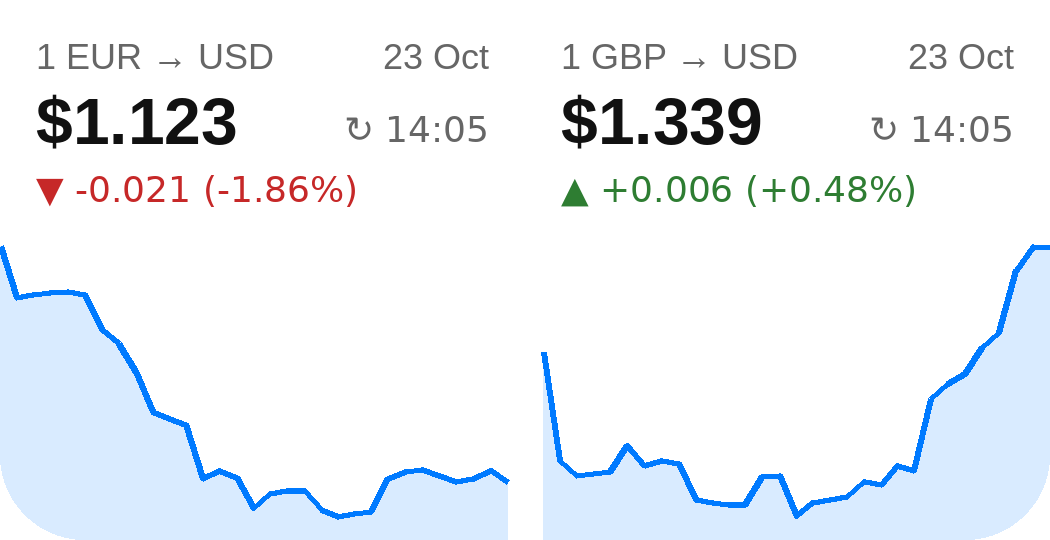
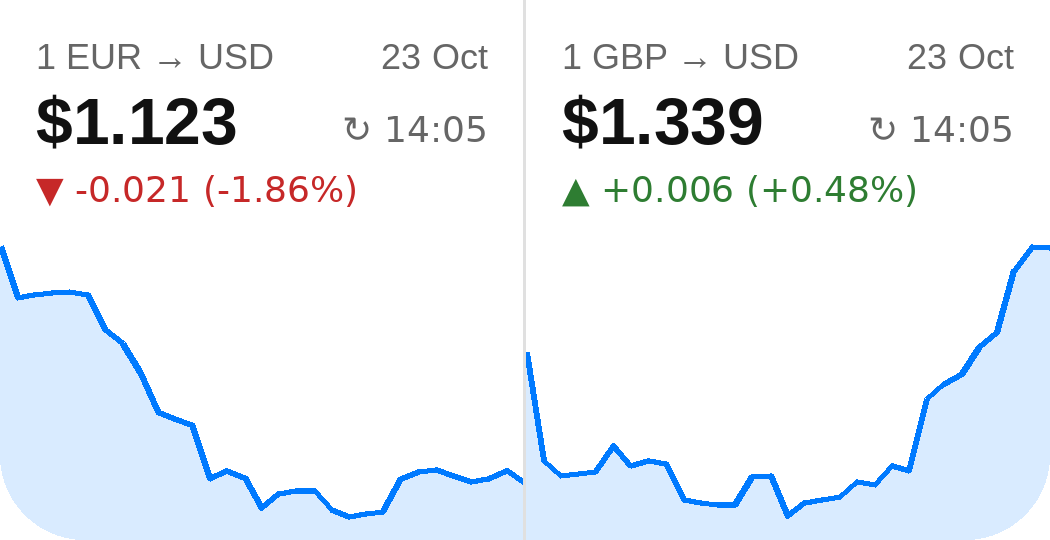
fix(widgets): divide the two-rate widget with a line, not a gap (#1880)

diff --git a/app/widgets/ExchangeRateWidget.js b/app/widgets/ExchangeRateWidget.js
@@ -80,14 +80,12 @@ const SMALL_TEXT = { fontSize: FONT_SIZE.sm };
 const MESSAGE_TEXT = { fontSize: FONT_SIZE.md };
 const VALUE_TEXT = { fontSize: VALUE_FONT_SIZE, fontWeight: 'bold' };
 
-// The two-rate widget: one card holding two halves, a strip of the card's
-// own background between them (no line), so neither half's fill runs into
-// the other's.
-const PAIR_GAP = SPACING.md;
-// Text inset from a half's inner edge: the gap already separates the halves.
-const PAIR_INNER_PADDING = PADDING / 2;
+// The two-rate widget: one card holding two halves that meet at a hairline
+// running the card's full height, the fills on either side touching it.
+const DIVIDER_WIDTH = 1;
 const PAIR_ROOT_STYLE = { flexDirection: 'row', padding: 0 };
-const HALF_MESSAGE_STYLE = { ...PANEL_STYLE, justifyContent: 'center' };
+const DIVIDER_STYLE = { width: DIVIDER_WIDTH, height: 'match_parent' };
+const HALF_MESSAGE_STYLE = { ...PANEL_STYLE, justifyContent: 'center', paddingLeft: PADDING, paddingRight: PADDING };
 
 /**
  * Evenly thinned values, first and last kept.
@@ -429,7 +427,7 @@ ExchangeRateWidget.propTypes = {
  * would leave half empty: five cells wide is too much for one rate and splits
  * unevenly into two widgets. One card, each half laid out like the one-rate
  * widget at half the width, its line running to the card's outer edge and
- * bottom, with a small gap between the halves.
+ * bottom and up to a hairline between the halves.
  *
  * @param {Object} props
  * @param {Array<Object>} props.models - Two models, as the one-rate widget takes
@@ -446,12 +444,9 @@ export function ExchangeRatePairWidget({ models, theme, width, height }) {
   }
 
   const views = models.map(viewOf);
-  const halfWidth = (width - PAIR_GAP) / 2;
+  const halfWidth = (width - DIVIDER_WIDTH) / 2;
   const half = (model, view, side) => {
     const first = side === 'first';
-    const padLeft = first ? PADDING : PAIR_INNER_PADDING;
-    const padRight = first ? PAIR_INNER_PADDING : PADDING;
-    const gap = first ? null : { marginLeft: PAIR_GAP };
     if (!view.figures) {
       return (
         <MessageBox
@@ -459,24 +454,25 @@ export function ExchangeRatePairWidget({ models, theme, width, height }) {
           colors={colors}
           text={view.message}
           retry={view.retry}
-          style={{ ...HALF_MESSAGE_STYLE, ...gap, width: halfWidth, paddingLeft: padLeft, paddingRight: padRight }}
+          style={{ ...HALF_MESSAGE_STYLE, width: halfWidth }}
         />
       );
     }
     return ratePanel(model, view.figures, colors, {
       width: halfWidth,
       height,
-      padLeft,
-      padRight,
+      padLeft: PADDING,
+      padRight: PADDING,
+      // Rounded only at the card's own corner; square where it meets the line.
       radiusLeft: first ? CORNER_RADIUS : 0,
       radiusRight: first ? 0 : CORNER_RADIUS,
-      style: gap,
     }, side);
   };
 
   return (
     <Root colors={colors} label={views.map((view) => view.label).join('; ')} style={PAIR_ROOT_STYLE}>
       {half(models[0], views[0], 'first')}
+      <FlexWidget style={{ ...DIVIDER_STYLE, backgroundColor: colors.border }} />
       {half(models[1], views[1], 'second')}
     </Root>
   );

diff --git a/__tests__/widgets/ExchangeRateWidget.test.js b/__tests__/widgets/ExchangeRateWidget.test.js
@@ -215,7 +215,7 @@ describe('ExchangeRateWidget', () => {
       <ExchangeRatePairWidget models={models.map((m) => ({ language: 'en', ...m }))} theme={theme} width={width} height={height} />,
     );
 
-    it('draws two rates side by side in one card, a plain gap between', () => {
+    it('draws two rates side by side in one card, a hairline between them', () => {
       const tree = renderPair([
         { status: 'ready', chart: CHART, points: POINTS },
         { status: 'ready', chart: AMD, points: AMD_POINTS },
@@ -223,11 +223,12 @@ describe('ExchangeRateWidget', () => {
 
       expect(tree.props.orientation).toBe('HORIZONTAL');
       expect(tree.props.backgroundColor).toBe(lightTheme.colors.surface);
-      // Two halves and nothing else: no divider line.
-      const [first, second] = tree.children;
-      expect(tree.children).toHaveLength(2);
-      expect(first.props.width).toBe(184);
-      expect(second.props.margin).toMatchObject({ left: 12 });
+      const [first, divider, second] = tree.children;
+      expect(tree.children).toHaveLength(3);
+      // No gap: the halves meet the line on either side.
+      expect(first.props.width).toBe(189.5);
+      expect(second.props.margin).toBeUndefined();
+      expect(divider.props).toMatchObject({ width: 1, backgroundColor: lightTheme.colors.border });
       expect(textsOf(first)).toContain('₽81.55');
       expect(textsOf(second)).toContain('֏4.470');
       expect(tree.props.clickActionData).toEqual({ uri: GRAPHS_DEEP_LINK });
@@ -240,11 +241,11 @@ describe('ExchangeRateWidget', () => {
       ]);
       const [left, right] = nodesOf(tree, 'SvgWidget').map((node) => node.props.svgString);
 
-      // (380 - 12) / 2 wide each.
-      expect(left).toContain('width="184"');
-      expect(left).toContain('A0 0 0 0 1 184 96');
+      // (380 - 1) / 2 wide each, rounded to whole dp in the SVG.
+      expect(left).toContain('width="190"');
+      expect(left).toContain('A0 0 0 0 1 190 96');
       expect(left).toContain('A28 28 0 0 1 0 68');
-      expect(right).toContain('A28 28 0 0 1 156 96');
+      expect(right).toContain('A28 28 0 0 1 162 96');
       expect(right).toContain('A0 0 0 0 1 0 96');
     });
 
@@ -254,7 +255,7 @@ describe('ExchangeRateWidget', () => {
         { status: 'empty' },
       ]);
 
-      expect(textsOf(tree.children[1])).toEqual(['Add an exchange rate chart in Settings → Graphs']);
+      expect(textsOf(tree.children[2])).toEqual(['Add an exchange rate chart in Settings → Graphs']);
       expect(nodesOf(tree.children[0], 'SvgWidget')).toHaveLength(1);
     });
 

diff --git a/CLAUDE.md b/CLAUDE.md
@@ -364,7 +364,7 @@ const closeSubPanel = useCallback(() => {
 
 ### Home-Screen Widgets
 
-There are two exchange-rate widgets, built with `react-native-android-widget` (configured in `app.config.js`, `WIDGETS`): `ExchangeRate` (one rate, 3×2) and `ExchangeRatePair` (two rates in one card, 5×2, a plain gap between the halves). Both share the store, the task handler, the setup screen (which asks for one chart or two by `widgetName`) and the per-rate layout (`ratePanel`): text padded, the line and its fill running to the card's edges and bottom with the SVG rounding its own bottom corners. Things that are easy to get wrong:
+There are two exchange-rate widgets, built with `react-native-android-widget` (configured in `app.config.js`, `WIDGETS`): `ExchangeRate` (one rate, 3×2) and `ExchangeRatePair` (two rates in one card, 5×2, a hairline between the halves). Both share the store, the task handler, the setup screen (which asks for one chart or two by `widgetName`) and the per-rate layout (`ratePanel`): text padded, the line and its fill running to the card's edges and bottom with the SVG rounding its own bottom corners. Things that are easy to get wrong:
 
 - **Widget components are plain functions, not React components.** The library builds the RemoteViews tree by calling them directly: no hooks, no context, no state. They read palettes from `ThemeColorsContext`'s exported `lightTheme`/`darkTheme` and text through `translate(language, key)` (`notificationStrings.js`), and return `{ light, dark }` variants.
 - **The task handler runs headless** (app closed) for WIDGET_ADDED/UPDATE/RESIZED/DELETED, like the background bank task. It reads the same services the app does (`ExchangeRateHistory`, `ExchangeRateCharts`); every read must degrade to an "empty"/"error" widget rather than throw.
